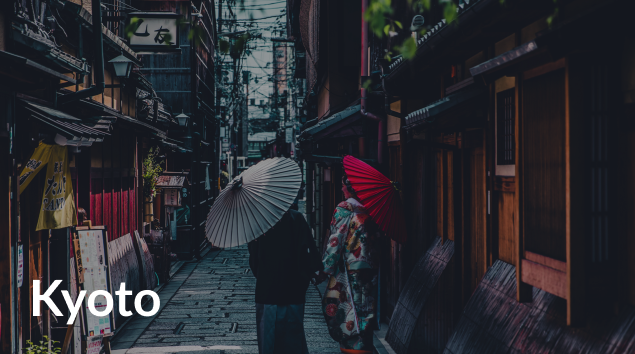
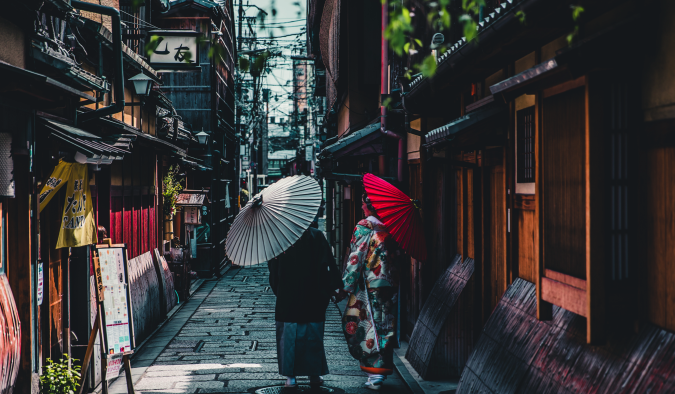
add

diff --git a/scss/style.scss b/scss/style.scss
@@ -255,6 +255,7 @@ html {
     }
     .col-sm-6:last-child {
       padding-right: 0px;
+      padding-left: 0px;
     }
     .col-sm-6 img {
       width: 100%;
@@ -274,13 +275,41 @@ html {
     .col-sm-4:nth-child(3) {
       padding-left: 10px;
     }
+    .row {
+      margin-top: 10px;
+      height: 100%;
+      .block3__row2_card-1, .block3__row2_card-2 {
+        position: relative;
+        .block3__row2_title-1, .block3__row2_title-2 {
+          position: absolute;
+          color: white;
+          font-weight: bold;
+          font-size: 50px;
+          line-height: 60px;
+          bottom: 27px;
+          left: 29px;
+        }
+        .block3__block-1, .block3__block-2 {
+          width: 100%;
+          object-fit: cover;
+        }
+      }
+      .block3__row2_card-1:before, .block3__row2_card-2:before {
+        display: block;
+        content:'';
+        position: absolute;
+        width: 100%;
+        height: 100%;
+        background-color: rgba(21, 24, 36, 0.4);
+      }
+    }
     .block3__row2 {
       margin-top: 10px;
       height: 100%;
       .block3__row2_card1, .block3__row2_card2, .block3__row2_card3 {
         position: relative;
       }
-      .block3__row2_card1::before, .block3__row2_card2::before, .block3__row2_card3::before  {
+      .block3__row2_card1::before, .block3__row2_card2::before, .block3__row2_card3::before {
         display: block;
         content:'';
         position: absolute;
@@ -435,6 +464,15 @@ html {
   }
   
   @media(max-width: 768px) {
+    .header {
+      margin: 0;
+      .header__button {
+        border: 1px solid white;
+      }
+      .header__logo {
+        margin-right: 20px;
+      }
+    }
     .intro {
       padding-top: 120px;
       .intro__title {
@@ -522,6 +560,30 @@ html {
           width: 320px;
         }
       }
+      .row {
+        .col-sm-6 {
+          margin-bottom: 10px;
+        }
+      }
+      .block3__row2 {
+        .col-sm-4 {
+          margin-bottom: 10px;
+        }
+        .col-sm-4:nth-child(2) {
+          width: 92%;
+          margin: 0 auto;
+        }
+        .col-sm-4:nth-child(3) {
+          width: 92%;
+          margin: 0 auto;
+        }
+        .block3__row2_card1::before {
+          width: 92%;;
+        }
+        .block3__row_card2 {
+          width: 90%;
+        }
+      }
       .bottom__link {
         padding-left: 100px
       }
@@ -529,15 +591,111 @@ html {
         float: none;
       }
       .col-sm-6 {
-        .img2__block2 {
-          height: auto;
+        padding-right: 15px;
+      }
+      .col-sm-6:nth-child(2) {
+        width: 100%;
+        padding: 0 15px;
+        margin-bottom: 10px;
+      }
+     .block3__row2 {
+        margin-top: 0;
+       .col-sm-4 {
+         padding: 0;
+         .block3__row2_card1 {
+           padding:0 15px;
+         }
+         .block3__row2_card2 {
+           margin-bottom: 10px;
+         }
+       }
+     }
+    }
+    .block4 {
+      .block4__colum1 {
+        .col-sm-6 {
+          .block4__title {
+            padding: 0;
+            text-align: center;
+          }
+          .block4__subtitle {
+            padding: 0;
+            text-align: center;
+            br {
+              display: none;
+            }
+          }
+        }
+        .col-sm-6:nth-child(1) {
+          order: 2;
+        }
+        .col-sm-6:nth-child(2) {
+          order: 1;
+          margin-bottom: 30px;
+        }
+      }
+      .block4__colum2 {
+        .col-sm-6 {
+          .block4__title2 {
+            text-align: center;
+          }
+          .block4__subtitle2 {
+            margin-bottom: 40px;
+            br {
+              display: none;
+            }
+          }
+          .block4__bottom-link2 {
+            margin-bottom: 30px;
+            text-align: center;
+          }
+        }
+      }
+    }
+    .block4 {
+      margin-top: 40px;
+      .block4__colum1 {
+        .col-sm-6:nth-child(2) {
+        .block4__title {
+          margin-bottom: 30px;
+        }
         }
       }
     }
     .block5 {
-      .block5__icon1 {
-        padding-left: 110px;
+      .row { 
+        .col-sm-4 {
+          margin-bottom: 20px;
+          .block5__icon1 {
+            padding-left: 110px;
+          }
+          .card-text {
+            text-align: center;
+          }
+          a {
+            margin-left: 110px;
+          }
+        }
       }
+      .block5__row2 {
+        margin-top: 0;
+        margin-bottom: 0;
+      }
+    }
+    .footer {
+      .row {
+        .footer__block1 {
+          padding: 20px 0;
+          img {
+            margin: 0 auto;
+          }
+        }
+        .col-sm-2 {
+          padding-top: 20px;
+          padding-left: 150px;
+          font-size: 20px;
+        }
+      } 
     }
   }
   

diff --git a/css/style.css b/css/style.css
@@ -227,7 +227,8 @@ body {
     width: 100%;
     padding-right: 11px; }
   .block3 .col-sm-6:last-child {
-    padding-right: 0px; }
+    padding-right: 0px;
+    padding-left: 0px; }
   .block3 .col-sm-6 img {
     width: 100%;
     height: 354px;
@@ -241,6 +242,29 @@ body {
     padding-left: 10px; }
   .block3 .col-sm-4:nth-child(3) {
     padding-left: 10px; }
+  .block3 .row {
+    margin-top: 10px;
+    height: 100%; }
+    .block3 .row .block3__row2_card-1, .block3 .row .block3__row2_card-2 {
+      position: relative; }
+      .block3 .row .block3__row2_card-1 .block3__row2_title-1, .block3 .row .block3__row2_card-1 .block3__row2_title-2, .block3 .row .block3__row2_card-2 .block3__row2_title-1, .block3 .row .block3__row2_card-2 .block3__row2_title-2 {
+        position: absolute;
+        color: white;
+        font-weight: bold;
+        font-size: 50px;
+        line-height: 60px;
+        bottom: 27px;
+        left: 29px; }
+      .block3 .row .block3__row2_card-1 .block3__block-1, .block3 .row .block3__row2_card-1 .block3__block-2, .block3 .row .block3__row2_card-2 .block3__block-1, .block3 .row .block3__row2_card-2 .block3__block-2 {
+        width: 100%;
+        object-fit: cover; }
+    .block3 .row .block3__row2_card-1:before, .block3 .row .block3__row2_card-2:before {
+      display: block;
+      content: '';
+      position: absolute;
+      width: 100%;
+      height: 100%;
+      background-color: rgba(21, 24, 36, 0.4); }
   .block3 .block3__row2 {
     margin-top: 10px;
     height: 100%; }
@@ -363,6 +387,12 @@ body {
     padding-top: 119px; }
 
 @media (max-width: 768px) {
+  .header {
+    margin: 0; }
+    .header .header__button {
+      border: 1px solid white; }
+    .header .header__logo {
+      margin-right: 20px; }
   .intro {
     padding-top: 120px; }
     .intro .intro__title {
@@ -421,11 +451,80 @@ body {
       margin-bottom: 30px; }
       .block3 .block3__hr .block3__underline {
         width: 320px; }
+    .block3 .row .col-sm-6 {
+      margin-bottom: 10px; }
+    .block3 .block3__row2 .col-sm-4 {
+      margin-bottom: 10px; }
+    .block3 .block3__row2 .col-sm-4:nth-child(2) {
+      width: 92%;
+      margin: 0 auto; }
+    .block3 .block3__row2 .col-sm-4:nth-child(3) {
+      width: 92%;
+      margin: 0 auto; }
+    .block3 .block3__row2 .block3__row2_card1::before {
+      width: 92%; }
+    .block3 .block3__row2 .block3__row_card2 {
+      width: 90%; }
     .block3 .bottom__link {
       padding-left: 100px; }
     .block3 .bottom__link {
       float: none; }
-    .block3 .col-sm-6 .img2__block2 {
-      height: auto; }
-  .block5 .block5__icon1 {
-    padding-left: 110px; } }
+    .block3 .col-sm-6 {
+      padding-right: 15px; }
+    .block3 .col-sm-6:nth-child(2) {
+      width: 100%;
+      padding: 0 15px;
+      margin-bottom: 10px; }
+    .block3 .block3__row2 {
+      margin-top: 0; }
+      .block3 .block3__row2 .col-sm-4 {
+        padding: 0; }
+        .block3 .block3__row2 .col-sm-4 .block3__row2_card1 {
+          padding: 0 15px; }
+        .block3 .block3__row2 .col-sm-4 .block3__row2_card2 {
+          margin-bottom: 10px; }
+  .block4 .block4__colum1 .col-sm-6 .block4__title {
+    padding: 0;
+    text-align: center; }
+  .block4 .block4__colum1 .col-sm-6 .block4__subtitle {
+    padding: 0;
+    text-align: center; }
+    .block4 .block4__colum1 .col-sm-6 .block4__subtitle br {
+      display: none; }
+  .block4 .block4__colum1 .col-sm-6:nth-child(1) {
+    order: 2; }
+  .block4 .block4__colum1 .col-sm-6:nth-child(2) {
+    order: 1;
+    margin-bottom: 30px; }
+  .block4 .block4__colum2 .col-sm-6 .block4__title2 {
+    text-align: center; }
+  .block4 .block4__colum2 .col-sm-6 .block4__subtitle2 {
+    margin-bottom: 40px; }
+    .block4 .block4__colum2 .col-sm-6 .block4__subtitle2 br {
+      display: none; }
+  .block4 .block4__colum2 .col-sm-6 .block4__bottom-link2 {
+    margin-bottom: 30px;
+    text-align: center; }
+  .block4 {
+    margin-top: 40px; }
+    .block4 .block4__colum1 .col-sm-6:nth-child(2) .block4__title {
+      margin-bottom: 30px; }
+  .block5 .row .col-sm-4 {
+    margin-bottom: 20px; }
+    .block5 .row .col-sm-4 .block5__icon1 {
+      padding-left: 110px; }
+    .block5 .row .col-sm-4 .card-text {
+      text-align: center; }
+    .block5 .row .col-sm-4 a {
+      margin-left: 110px; }
+  .block5 .block5__row2 {
+    margin-top: 0;
+    margin-bottom: 0; }
+  .footer .row .footer__block1 {
+    padding: 20px 0; }
+    .footer .row .footer__block1 img {
+      margin: 0 auto; }
+  .footer .row .col-sm-2 {
+    padding-top: 20px;
+    padding-left: 150px;
+    font-size: 20px; } }

diff --git a/index.html b/index.html
@@ -18,7 +18,7 @@
                 <nav class="navbar navbar-expand-lg px-0">
                     
                     
-                    <button class="navbar-toggler" type="button" data-toggle="collapse" data-target="#navbarSupportedContent" aria-controls="navbarSupportedContent" aria-expanded="false" aria-label="Toggle navigation">
+                    <button class="navbar-toggler header__button" type="button" data-toggle="collapse" data-target="#navbarSupportedContent" aria-controls="navbarSupportedContent" aria-expanded="false" aria-label="Toggle navigation">
                       <span class="navbar-toggler-icon"></span>
                     </button>
           
@@ -136,10 +136,16 @@
             </div>
           <div class="row">
               <div class="col-sm-6">
-                  <img src="img/img1_block2.png" class="img-fluid img2__block2">
+                <figure class="block3__row2_card-1">
+                  <img src="img/img1_block2.png" class="img-fluid block3__block-1">
+                  <figcaption class="block3__row2_title-1">Mount Fuji</figcaption>
+                </figure>
               </div>
-              <div class="col-sm-6 pl-0">
-                <img src="img/img2_block2.png" class="img-fluid img2__block3 mx-0">
+              <div class="col-sm-6">
+                <figure class="block3__row2_card-2">
+                  <img src="img/img2_block2.png" class="img-fluid block3__block-2 mx-0">
+                  <figcaption class="block3__row2_title-2">Kyoto</figcaption>
+                </figure>
               </div>
           </div>
           <div class="row block3__row2">
@@ -226,7 +232,7 @@
                     </div>
                     <div class="card-body">
                       <p class="card-text">Some quick example text to build on the card title and make up the bulk of the card's content.</p>
-                      <a href="#" class="btn btn-primary">SEE MORE</a>
+                      <a href="#" class="btn btn-primary block5__button">SEE MORE</a>
                     </div>
                   </div>
               </div>
